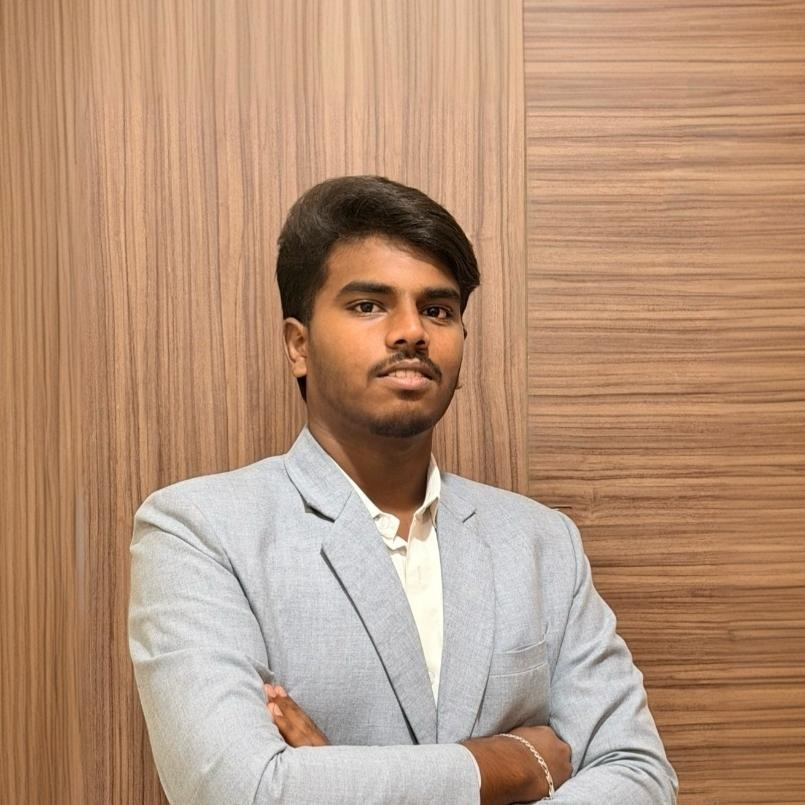
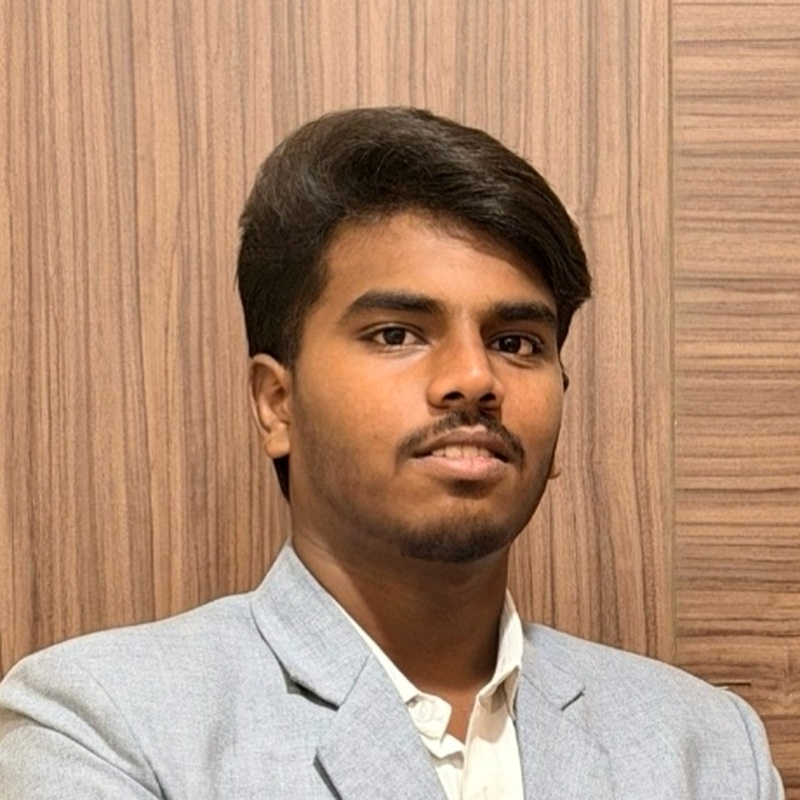
fix: center and align Suganth's headshot for clear face visibility and professional framing

diff --git a/src/components/TeamSection.jsx b/src/components/TeamSection.jsx
@@ -42,7 +42,7 @@ export const TEAM_MEMBERS = [
     badgeType: 'code',
     memberNo: 'Member 3',
     initials: 'SR',
-    image: '/images/suganth.jpg?v=2',
+    image: '/images/suganth.jpg?v=3',
     avatarBg: 'bg-sky-600',
     description:
       'Developed backend services and REST APIs using Python, FastAPI and Pydantic, including API validation, business logic and frontend-backend integration.',
